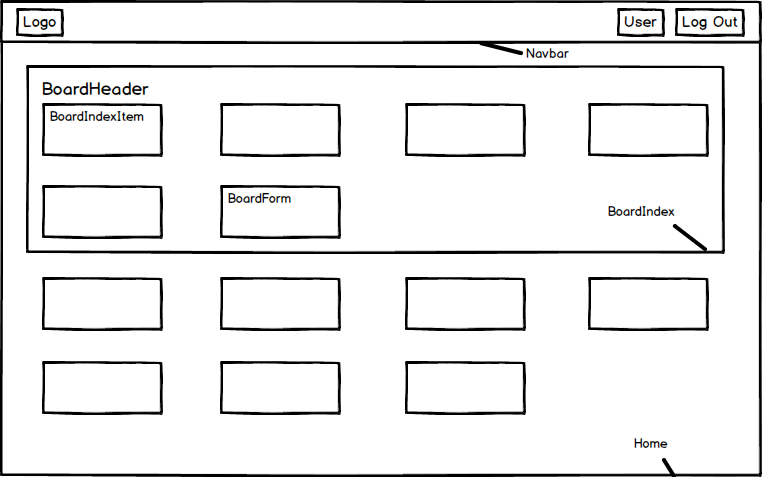
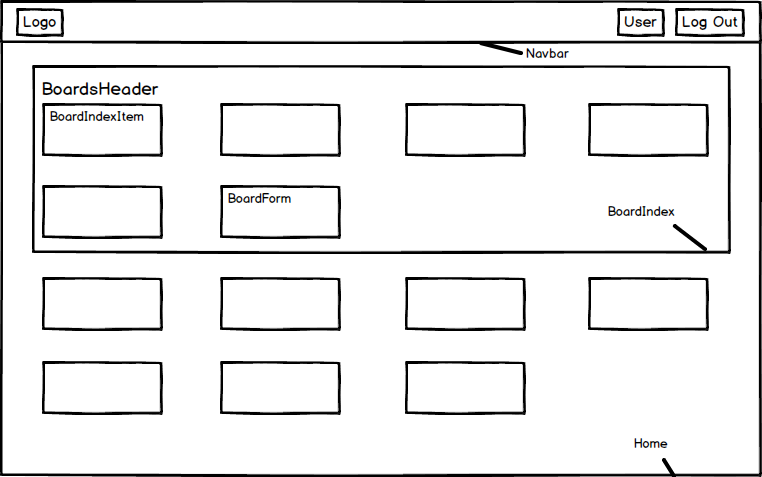
update component hierarchy

Changed region(s): [[0.9357, 0.1174, 0.9659, 0.5283], [0.0302, 0.1174, 0.0604, 0.5283], [0.1207, 0.1761, 0.2113, 0.2055]]

diff --git a/docs/component-hierarchy.md b/docs/component-hierarchy.md
@@ -9,56 +9,46 @@
 
 **BoardsContainer**
  - BoardsHeader
-  - BoardsIndex
-    - BoardIndexItem
-    - BoardForm
+ - BoardIndex
+
+**BoardIndex**
+ - BoardIndexItem
+ - BoardForm
 
 **BoardDetailContainer**
-  - BoardDetail
-    - ListIndex
-    - MemberMenu
+ - BoardHeader
+ - ListIndex
+ - MemberIndex
 
-**NotebookContainer**
- - NotebookHeader
-  + NoteIndex
+**ListIndex**
+ - ListIndexItem
+ - ListForm
 
-**SearchResultsContainer**
- - Search
- - NoteIndex
+**MemberIndex**
+ - MemberHeader
+ - MemberIndexItem
+ - MemberForm
 
-**TagContainer**
- - NotebookHeader
-  + NoteIndex
+**ListIndexItem**
+ - CardIndex
 
-**NoteIndex**
- - NoteIndexItem
-  + NoteDetail
-    + NoteTools
-    - NotebookSearch
-    - Tags
-      - Tag
-    * Note
+**CardIndex**
+ - CardIndexItem
+ - CardForm
 
-**NewNoteContainer**
- - NewNote
-  - RTETools
-  - NewNoteButton
+**CardDetailContainer**
+ - CardHeader
+ - ChecklistIndex
+ - CommentIndex
 
-**Search**
+**ChecklistIndex**
+ - ChecklistHeader
+ - ChecklistIndexItem
 
-**NewNotebook**
- - NewNotebook
-
-**NewTag**
- - NewTag
-
-**NotebookSearch**
- + AutoSearch
- * AutoSearchResults
-
-**TagsSearch**
- + AutoSearch
- * AutoSearchResults
+**CommentIndex**
+ - CommentHeader
+ - CommentIndexItem
+ - CommentForm
 
 ## Routes
 
@@ -67,13 +57,5 @@
 | "/sign-up" | "AuthFormContainer" |
 | "/sign-in" | "AuthFormContainer" |
 | "/home" | "HomeContainer" |
-| "/home/note/:noteId" | "NotesContainer" |
-| "/home/notebook/:notebookId/note/:noteId" | "NotebookContainer" |
-| "/home/tag/:tagId/note/:notedId" | "TagContainer" |
-| "/home/search-results" | "SearchResultsContainer"
-| "/new-note" | "NewNoteContainer" |
-| "/search" | "Search" |
-| "/new-notebook" | "NewNotebook" |
-| "/new-tag" | "NewTag" |
-| "/tag-search" | "TagSearch" |
-| "/notebook-search" | "NotebookSearch" |
+| "/home/board/:boardId" | "BoardDetailContainer" |
+| "/home/board/:boardId/card/:cardId" | "CardDetailContainer" |
